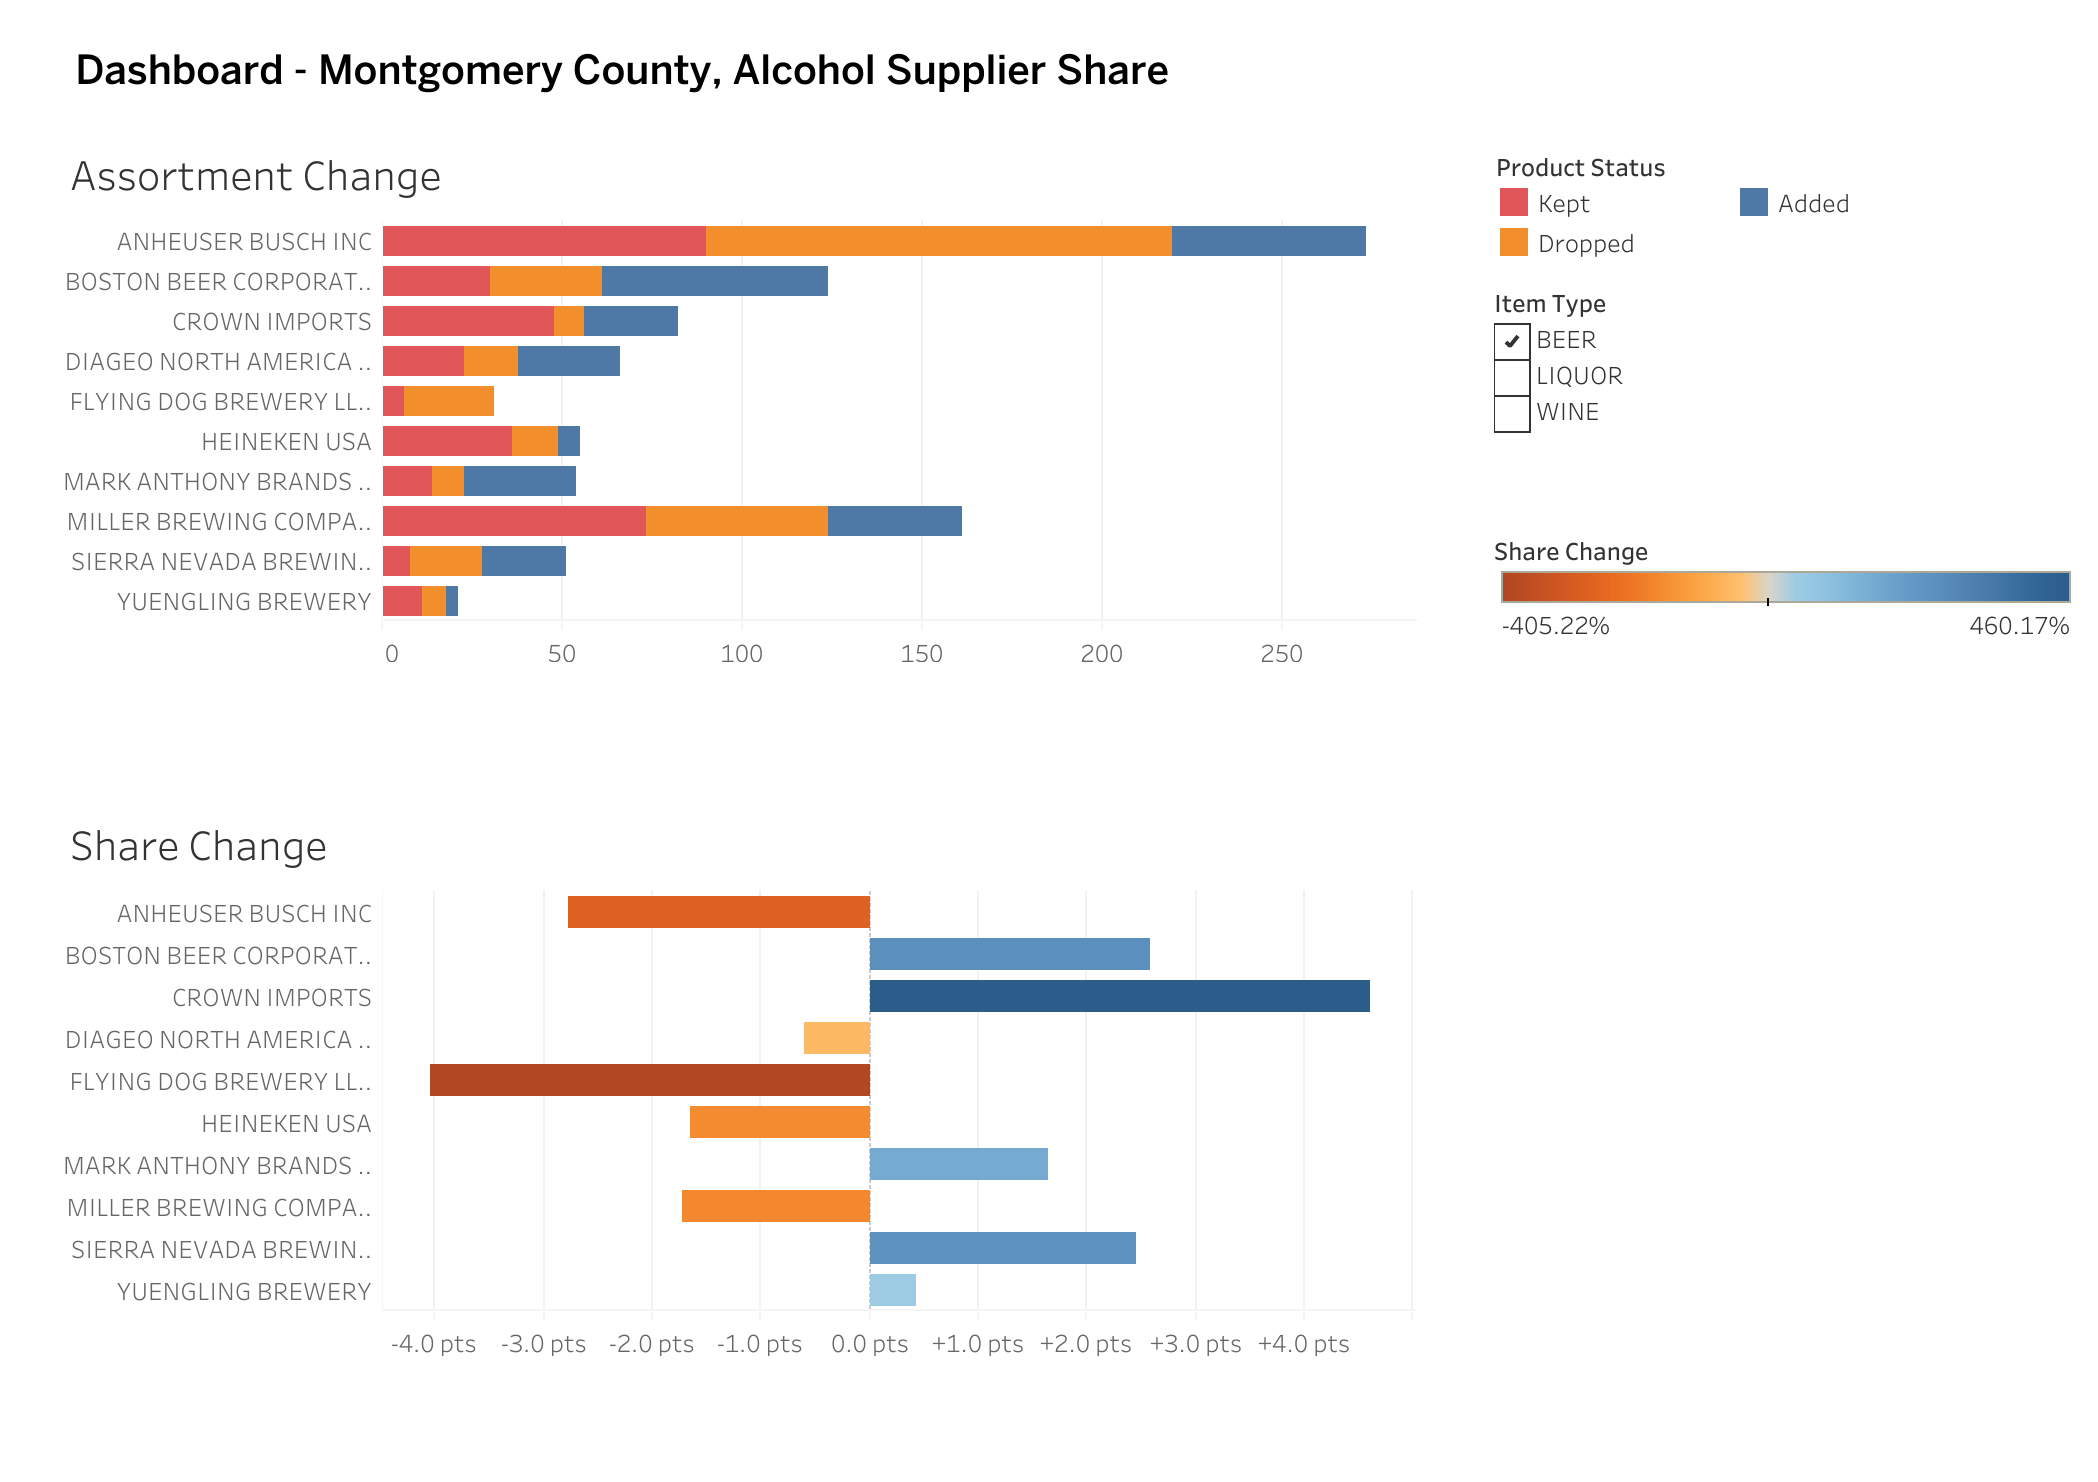
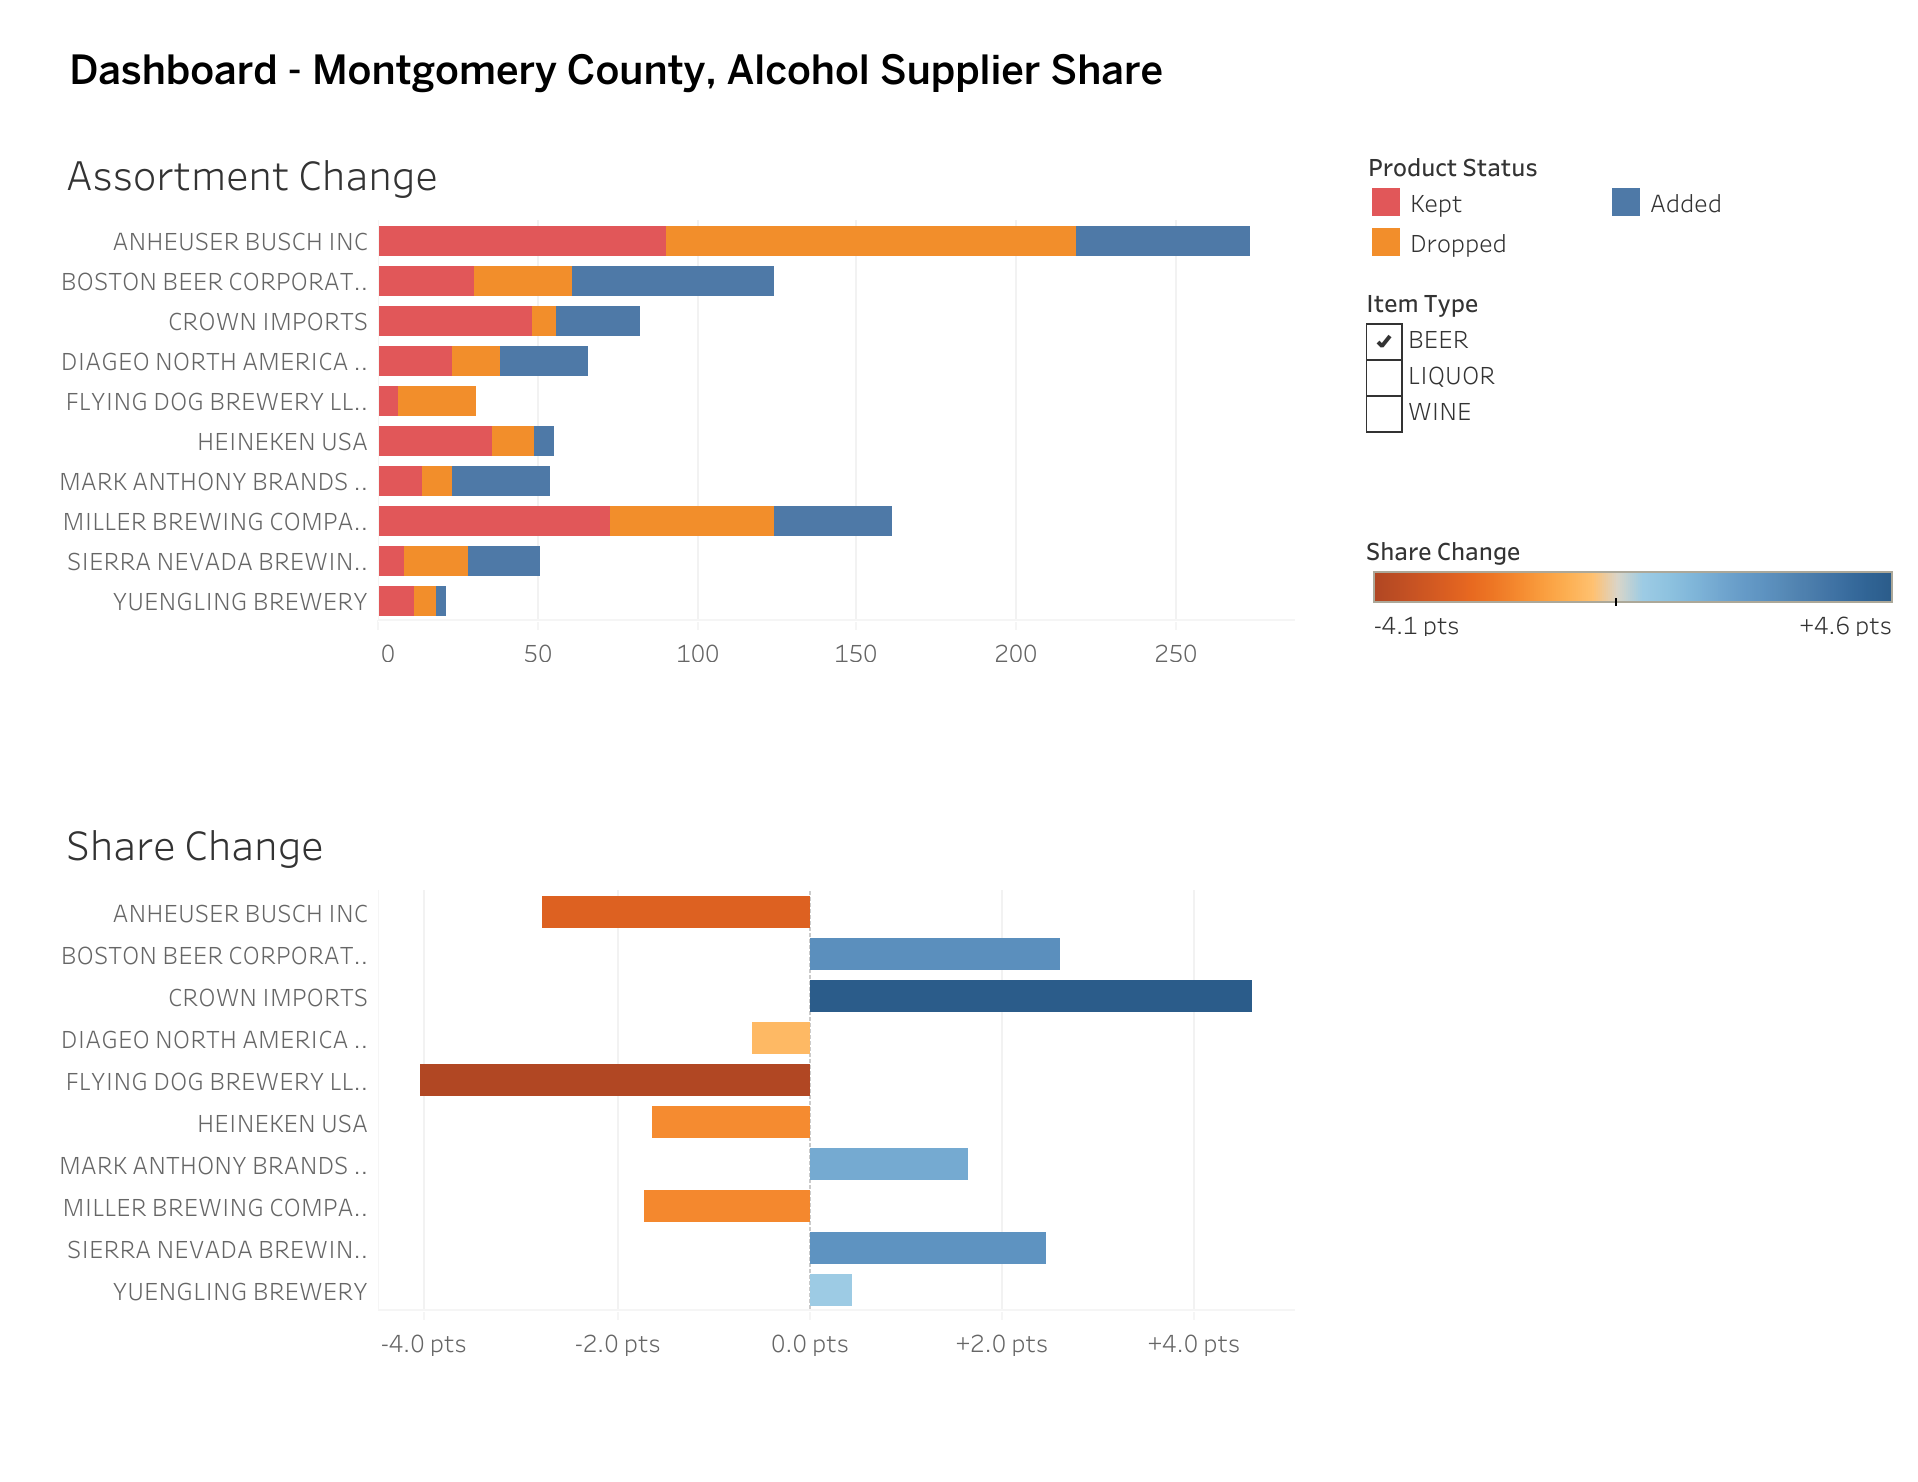
Liquor: Anheuser-Busch and Sazerac tie; update Share Change screenshot
- Cutwater is ~3/4 of AB liquor; deal agreed Feb 2019; net of 2019 distributor sales AB ties Sazerac at +5.9

- Share Change screenshot now in pts

diff --git a/README.md b/README.md
@@ -9,7 +9,7 @@
 
 - **Wine's biggest shift was an acquisition, not a consumer switch:** E. & J. Gallo grew from 16.7% to 25.2% of summer wine sales (+8.5 pts) while Constellation Brands fell from 13.6% to 1.8% (-11.8 pts). Gallo bought 30+ Constellation wine brands in January 2021 ([Gallo](https://www.gallo.com/press/2021-01-05-ej-gallo-winery-completes-acquisition)). Consequently, the same brands appear under Constellation in 2019 and under Gallo in 2026.
 - **Beer: Crown Imports widened its lead:** Crown Imports rose from 17.6% to 22.2% (+4.6 pts). Boston Beer's +2.6 pts (7.8% → 10.4%) comes from absorbing Dogfish Head, a deal that closed July 3, 2019 ([Boston Beer 8-K](https://www.sec.gov/Archives/edgar/data/949870/000156459019024521/sam-8k_20190703.htm)); combined, the two went 11.1% → 10.4% (-0.7). Anheuser-Busch (-2.8), Miller (-1.7) and Heineken (-1.6) lost share. Flying Dog's -4.1 pts is partly an ownership change: FX Matt Brewing bought it in May 2023 ([Brewbound](https://www.brewbound.com/news/fx-matt-to-acquire-flying-dog-creating-top-10-ba-defined-craft-brewery)), and combined, the two went 4.1% → 1.5% (-2.6).
-- **Liquor: Anheuser-Busch is the biggest gainer:** Anheuser-Busch went from 0% to 6.2% (+6.2 pts), almost all Cutwater canned cocktails; it bought Cutwater in February 2019 ([BevNet](https://www.bevnet.com/news/2019/anheuser-busch-to-acquire-fast-growing-cutwater-spirits)). Sazerac grew from 8.7% to 14.6% (+5.9 pts). Jim Beam (-5.0) and Diageo (-3.7) lost the most.
+- **Liquor: Anheuser-Busch and Sazerac gained the most:** Anheuser-Busch went from 0% to 6.2% (+6.2 pts), about three-quarters of it Cutwater canned cocktails; it agreed to buy Cutwater in February 2019 ([BevNet](https://www.bevnet.com/news/2019/anheuser-busch-to-acquire-fast-growing-cutwater-spirits)), and Cutwater already sold 0.3 pts under a distributor in 2019, so its net gain (+5.9) ties Sazerac's (8.7% → 14.6%, +5.9). Jim Beam (-5.0) and Diageo (-3.7) lost the most.
 - **Assortment: liquor's top gainers grew on new products, beer's leader on existing ones:** 41.4% of summer 2026 liquor sales came from products not sold in summer 2019, vs 18.0% for beer and 19.1% for wine. Sazerac got 42.8% of its 2026 sales from new products, and Boston Beer 47.8%. Crown Imports got only 3.1%, so its gain came from products it already sold. On the delete side, products later dropped made up 17.4% of summer 2019 beer sales, 14.8% of wine and 11.7% of liquor.
 - **Concentration: beer and wine held steady, liquor spread out:** Each year's own top 5 suppliers held 67.6% → 68.6% of beer sales, 51.5% → 51.9% of wine and 48.3% → 45.0% of liquor ([concentration ratio](https://en.wikipedia.org/wiki/Concentration_ratio)). Wine's top 5 swapped two members (Constellation and Treasury out, Deutsch and Jackson in), and so did liquor's (Bacardi and Heaven Hill out, Gallo and Anheuser-Busch in). Liquor's top 5 lost 3.4 pts to smaller suppliers. The dashboard's Top 5 Suppliers table instead holds one set of 5 suppliers, picked by combined 2019 + 2026 sales, for both years.
 - **Beer and wine shrank, liquor held:** Summer retail sales fell 45.0% for beer and 43.0% for wine, and rose 1.9% for liquor. Shares are measured within each type, so a share gain can still mean fewer dollars.
@@ -60,7 +60,7 @@ Counts below are printed by `clean.py` (run on the 11/02/2026 file).
 ## Data gaps
 The dataset covers Jun 2017 - Feb 2018, Jan 2019 - Nov 2019, Jan/Mar/Jul/Sep 2020, and Jun - Aug 2026. **Nothing exists for 2021–2025**, so this is a two-point comparison, not a trend.
 
-## Initial Cleaning Run:
+## Initial Cleaning Run
 ### Option 1: Python (clean.py)  
 
 ```
